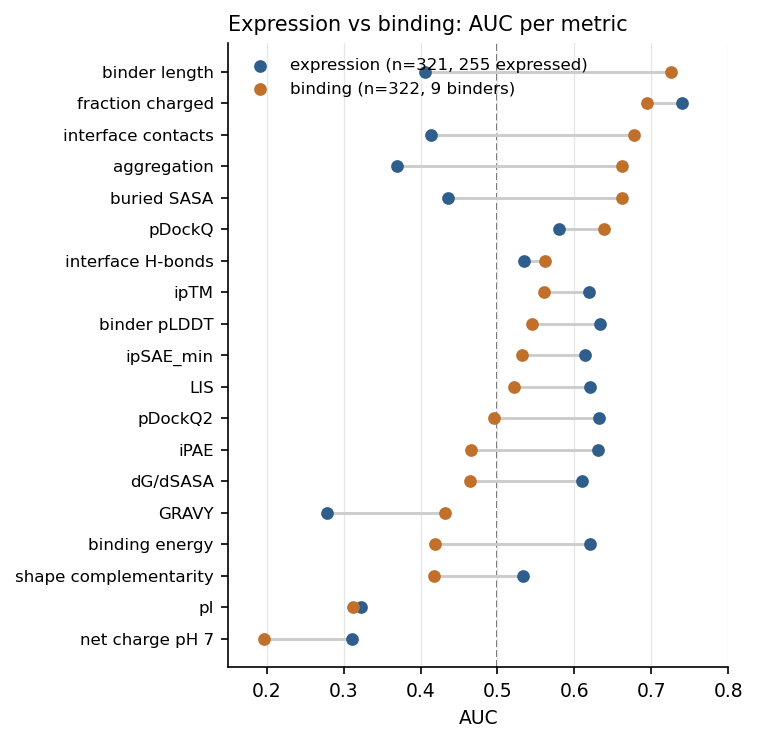
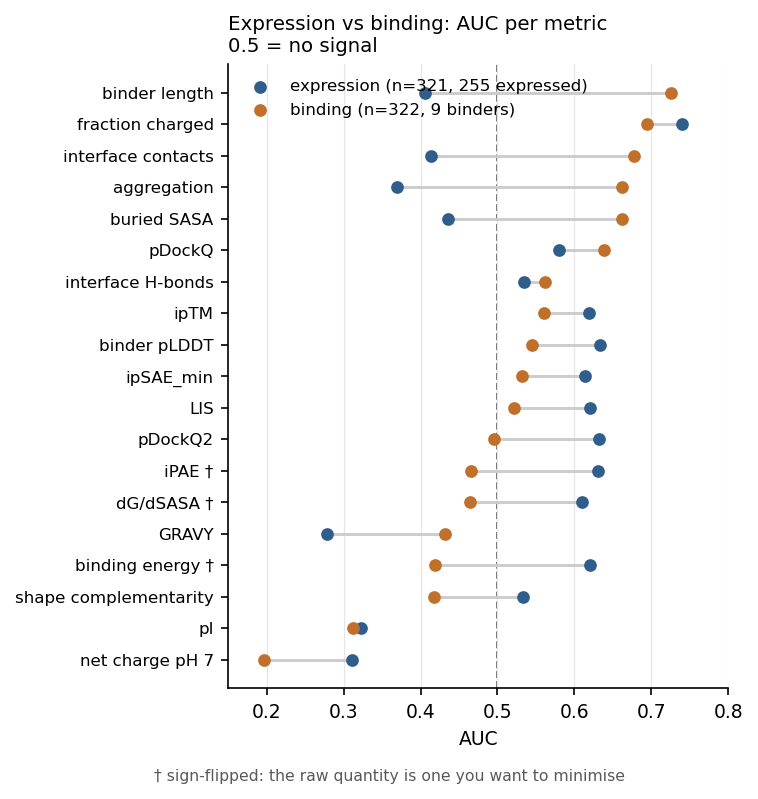
adding images

diff --git a/_posts/2026-09-24-binders-for-rbx1.md b/_posts/2026-09-24-binders-for-rbx1.md
@@ -5,15 +5,32 @@ date: 2026-09-24
 custom_js: https://cdnjs.cloudflare.com/ajax/libs/3Dmol/2.1.0/3Dmol-min.js
 ---
 
-There's a new adaptyv protein design competition starting soon and I thought I'd try to learn a bit about how AI is used to generate binders for proteins. A good first step here is to use the recent GEM/Adaptyv RBX1 competition to try a couple of things: 1. Making a pipeline for generating binders and 2. Find out how binders are selected for experimental testing.
+Of the 24 metrics I computed over the 322 designs from the GEM/Adaptyv RBX1 competition, the ones that predict whether a design *expresses* are mostly not the ones that predict whether it *binds*, and several of them predict the two in opposite directions.
 
-By the end we will see some metrics that correlate with expression and binding, and see if a proposed set of gating criteria would have been effective in this challenge.
+![AUC for each metric, expression vs binding](/images/rbx1/auc-expression-vs-binding.png)
 
-RBX1 is a part of the Cullin-RING E3 ligase complex that tags other unwanted or damaged proteins for destruction and recycling. It does this through a process called ubiquitinisation, attaching a molecule called ubiquitin to mark proteins for degradation. It plays an important role in cell proliferation and thus cancer, as well as some other diseases, so makes a good target for drugging.
+The metrics are plotted in their raw direction, so distance from the dashed line at 0.5 is what's important and anything to the left of it is predicting in reverse. (The figure shows 19 of the 24; the near-duplicate aggregations are in the tables below.) There are four standout results here:
 
-However it is difficult to design binders primarily for three reasons: firstly it has this large intrinsically disordered region on the N-terminal, this protein forms part of a larger complex, and without the other subunits pinning it down this region can adopt many conformations (in fact it can still take on different conformations when part of the whole complex, which allows the complex the requisite flexibility to attach ubiquitin to many different proteins). The uncertainty in this region swamps the uncertainty on the rest of the sequence, and thus metrics like whole complex pTM or pLDDT or any other metric which doesn't restrict itself to contact residues and which is computed across the whole complex, get tanked by the disordered region even though the uncertainty in that region might not affect where we would want to bind to anyway. Secondly, on the other end of the protein it has these three zinc ions which get held in a cross-brace sort of position and which AI models usually struggle to place correctly. But without placing these correctly the RING domain won't fold right. And finally, it lacks useful evolutionary relatives or analogues, so MSA based approaches have little to go on.
+- **The two charge metrics are the only ones near the top for both.** `seq_fraction_charged` is the best expression predictor at 0.740 and is third for binding at 0.695; net charge at pH 7 is the strongest binding signal and third strongest for expression. Everything else that is good at one is mediocre or reversed at the other.
+- **Binder length, interface contacts, buried SASA and aggregation all sit below 0.5 for expression and above it for binding.** Filtering hard on expression proxies is therefore partly selecting against binding.
+- **The strongest single binding signal is net charge at pH 7**, which lands at 0.197, meaning 0.80 read in the negative direction. A plain sequence property with no structural information in it beats every interface metric here, and every `iface_*` metric except `iface_pdockq` falls within 0.07 of chance, with `iface_iptm` the furthest out at 0.561 and `iface_pdockq2` the closest in at 0.496.
+- **The best metric by AUC isn't the one I'd rank on.** This one isn't in the plot: net charge has the best AUC but an average precision of 0.088, against 0.229 for interface contacts. With a budget to test 20 designs I'd pick differently.
 
-The scale of the problem shows in the fold-prediction baselines. According to a [blog post by the winners of the competition](https://research.mandrake.bio/p/we-dont-even-design-binders), Mandrake bio, ESMFold reaches pLDDT 0.40 on this target, Protenix ab initio 0.60, Boltz-2 0.63. All of these uninformative or marginal. In adaptyv's competition out of 322 designs, only 9 bound to the target and 255 expressed.
+With 9 binders out of 322 none of this is conclusive, and I'll come back to that below. The rest of this post is how I got there: a pipeline for generating binders, and then a look at how the competition's binders would have scored against the usual selection metrics.
+
+## Why RBX1 is hard
+
+RBX1 is a part of the Cullin-RING E3 ligase complex that tags other unwanted or damaged proteins for destruction and recycling. It does this through a process called ubiquitination, attaching a molecule called ubiquitin to mark proteins for degradation. It plays an important role in cell proliferation and thus cancer, as well as some other diseases, so makes a good target for drugging.
+
+It is difficult to design binders for, though, for a few reasons.
+
+It has a large intrinsically disordered region on the N-terminal. This protein forms part of a larger complex, and without the other subunits pinning it down this region can adopt many conformations. In fact it can still take on different conformations when part of the whole complex, which allows the complex the requisite flexibility to attach ubiquitin to many different proteins. The uncertainty in this region swamps the uncertainty on the rest of the sequence, so metrics like whole complex pTM or pLDDT, or any other metric which doesn't restrict itself to contact residues and which is computed across the whole complex, get tanked by the disordered region even though the uncertainty there might not affect where we would want to bind anyway.
+
+On the other end of the protein it has three zinc ions which get held in a cross-brace sort of position and which AI models usually struggle to place correctly. Without placing these correctly the RING domain won't fold right.
+
+And finally it lacks useful evolutionary relatives or analogues, so MSA based approaches have little to go on.
+
+The scale of the problem shows in the fold-prediction baselines. According to a [blog post by the winners of the competition](https://research.mandrake.bio/p/we-dont-even-design-binders), Mandrake bio, ESMFold reaches pLDDT 0.40 on this target, Protenix ab initio 0.60, Boltz-2 0.63. All of these are uninformative or marginal. In adaptyv's competition out of 322 designs, only 9 bound to the target and 255 expressed.
 
 Mandrake's ORBIT pipeline took an approach that:
 
@@ -34,13 +51,13 @@ Adaptyv has run several of these competitions: A two stage competition aiming to
 
 In the first adaptyv competition on EGFR iPAE, ipTM and ESM-2 pseudo-likelihood were used as selection mechanisms. Also additional binders were selected to increase diversity in the final released dataset, so the above concerns are well known. One of the results that stood out to me in [their write up](https://www.biorxiv.org/content/10.1101/2025.04.17.648362v2.full.pdf) was that lumping all designs together meant that metrics that might only show significance on say, peptides, would be marked down as insignificant. In fact the winning design was completely overlooked by the above metrics. In the Nipah competition ipSAE was chosen, but it had issues in that scores would vary slightly due to random seed and this variability was not uniform across designs, which may have advantaged designs which gave more stable scores. All of this is to say that determining *in-silico* whether a design will bind is quite challenging. In a [2025 paper](https://www.biorxiv.org/content/10.1101/2025.08.14.670059v2) Overath et al. propose the following selection criteria:
 
-
 "Based on our analysis, we recommend the following actionable filtering strategies. The first involves setting one of the following thresholds for filtering designs: AF3 ipSAE_min > 0.61; AF3 ipSAE_min x interface_∆G/∆SASA < -1.5; or AF3 LIS x input_interface_shape_complementary > 0.42. The second strategy entails pre-filtering designs using input_interface_shape_complementary > 0.62 and RMSD_binder < 3.73, followed by selecting the top K designs based on AF3 ipSAE_min"
 
-I thought it would be worthwhile to see if me and Claude could build a binder generation pipeline informed somewhat by Mandrake's pipeline and then see how the 9 binders from the competition would have fared against the aforementioned metrics and selection criteria. In line with Mandrake's proposal we will use protenix in place of AF3 to calculate metrics.
+I thought it would be worthwhile to build a binder generation pipeline informed somewhat by Mandrake's pipeline and then see how the 9 binders from the competition would have fared against the aforementioned metrics and selection criteria. In line with Mandrake's proposal we will use protenix in place of AF3 to calculate metrics.
 
 ### My pipeline
-Claude code is really good at this sort of thing, the hardest part of building the pipeline was dealing with the feelings of obsolescence as it handily whipped off code it would have taken me weeks to do by hand. The pipeline ended up looking like:
+
+I used Claude Code for most of the plumbing here and specified the binding site myself. The pipeline ended up looking like:
 
 ```
 target structure + hotspot residues
@@ -61,10 +78,10 @@ target structure + hotspot residues
    feature table
 ```
 
-First we can do a few sanity checks of this pipeline, when we generate binders do they make sense, do we actually make contact with the binding site etc.
+First we can do a few sanity checks of this pipeline: when we generate binders do they make sense, do we actually make contact with the binding site etc.
 
 ### Do we make contact?
-The first question is: when we use RFDiffusion to design binders against our fold from protenix, do we actually make contact with the binding sites we specify (A74/F81/Y106, chosen somewhat arbitrarily although I excluded the disordered region)? The answer seems to be yes for at least one of the sites and "somewhat" if we want to contact all three sites? We don't necessarily need a binder to contact all 3 hotspots so contacting just one is a good sign that we are on target.
+The first question is: when we use RFDiffusion to design binders against our fold from protenix, do we actually make contact with the binding sites we specify (A74/F81/Y106, chosen somewhat arbitrarily although I excluded the disordered region)? The answer seems to be yes for at least one of the sites and "somewhat" if we want to contact all three sites. We don't necessarily need a binder to contact all 3 hotspots so contacting just one is a good sign that we are on target.
 
 
 | run | n backbones | contact >=1 hotspot | contact all 3 hotspots |
@@ -89,24 +106,22 @@ Looks pretty good, SolubleMPNN clearly does a good job at this.
 ## Evaluating the published dataset
 In the next couple of sections we will take a really crude look at what metrics predict expression and binding in the set of proposed binders released after the competition. To do this properly we should probably look more generally beyond RBX1 considering how few binders there were and deal with uncertainty and significance properly. But just to start let's see.
 
-The short version is in this plot: the metrics that separate expressors from non-expressors are mostly not the ones that separate binders from non-binders, and several of them point in opposite directions.
-
-![AUC for each metric, expression vs binding](/images/rbx1/auc-expression-vs-binding.png)
+Throughout, AUCs are reported in each metric's raw direction, except the error and energy metrics marked *(sign-flipped)*, where the raw quantity is one you want to minimise. Average precision is raw throughout, which matters for the metrics that predict in reverse. An AUC below 0.5 doesn't mean the metric is useless, it means it predicts in reverse: subtract it from 1 to get its strength in the other direction. So what matters is distance from 0.5, not whether a number is large.
 
 ### Expression (n=321, 255 expressed)
-Before a design can bind to the target it must express, meaning they must be able to be produced in the assay adaptyv used. (Note one design had no binder label). Here we have sign flipped metrics appropriately so higher AUC always means "better at this metric predicts expression better".
+Before a design can bind to the target it must express, meaning they must be able to be produced in the assay adaptyv used. (Note one design had no binder label.)
 
 | metric | AUC |
 |---|---|
 | `seq_fraction_charged` | **0.740** |
 | `binder_mean_plddt` | 0.633 |
 | `iface_pdockq2` | 0.632 |
-| `iface_ipae`  | 0.631 |
-| `struct_binding_energy`  | 0.620 |
+| `iface_ipae` *(sign-flipped)* | 0.631 |
+| `struct_binding_energy` *(sign-flipped)* | 0.620 |
 | `iface_lis` | 0.620 |
 | `iface_iptm` | 0.619 |
 | `iface_ipsae_min` | 0.614 |
-| `struct_dg_dsasa_ratio`  | 0.610 |
+| `struct_dg_dsasa_ratio` *(sign-flipped)* | 0.610 |
 | `iface_i_pdae` (symmetrised) | 0.607 |
 | `iface_ipsae` | 0.605 |
 | `iface_i_pdae_asymmetric` | 0.604 |
@@ -123,16 +138,16 @@ Before a design can bind to the target it must express, meaning they must be abl
 | `seq_net_charge_ph7` | 0.311 |
 | `seq_gravy` | 0.278 |
 
-This makes sense, the SolubleMPNN weights were shown to be very important to get binders which expressed (93% to 0% difference!!) and it tends to raise the surface charge of the proteins it predicts. Additionally plddt and iPAE, the folding models confidence in its own predictions on a per residue level and predicted aligned error respectively, which a lot of the interface metrics either directly inherit from or are correlated to, makes sense as metrics to be positively correlated with expression: If the model is more confident that it has predicted the structure right or if it predicts a lower average error when aligning on all the residues, it is probably more plausible as a real structure. Maybe... and as we will see expression doesn't guarantee binding. Another problem with these metrics is that they are, of course, biased towards proteins which already exist and that were in the training set of whichever folding model you use, and we are interested in generating and selecting novel proteins.
+This makes sense, the SolubleMPNN weights were shown to be very important to get binders which expressed (93% to 0% difference!) and it tends to raise the surface charge of the proteins it predicts.
+
+pLDDT and iPAE, the folding model's confidence in its own predictions on a per residue level and predicted aligned error respectively, are inherited by or correlated with a lot of the interface metrics. It makes sense for these to be positively correlated with expression: if the model is more confident that it has predicted the structure right, or if it predicts a lower average error when aligning on all the residues, the design is probably more plausible as a real structure. Maybe. And as we will see, expression doesn't guarantee binding.
+
+Another problem with these metrics is that they are, of course, biased towards proteins which already exist and which were in the training set of whichever folding model you use, and we are interested in generating and selecting novel proteins.
 
 
 ### Binding (n=322, 9 binders)
 
-There are far fewer binders than expressors, so these results need to be taken with a proportionally larger pinch of salt. The ROC curves for the best few metrics make the sample size obvious — with 9 positives every step is one design, and a single relabelled design moves the curve visibly.
-
-![ROC curves for the top binding predictors](/images/rbx1/roc-binding.png)
-
-(`seq_net_charge_ph7` is shown sign-flipped here, so its AUC reads 0.80 rather than the 0.197 in the table below; it is the same ordering, just pointed the other way.)
+There are far fewer binders than expressors, so these results need to be taken with a proportionally larger pinch of salt.
 
 | metric | AUC | average precision |
 |---|---|---|
@@ -161,9 +176,33 @@ There are far fewer binders than expressors, so these results need to be taken w
 | `seq_pi` | 0.312 | 0.021 |
 | `seq_net_charge_ph7` | **0.197** | 0.018 |
 
-By eye these seem to make sense, RBX1 is a pretty complicated molecule so minimal scaffolds like minibinders may struggle to attach whereas a larger properly folded molecule has more to work with, so binder length being longer seems reasonable. The metrics that dominate have a lot to do with the binding site or other things that would make a molecule better or worse at sticking to another: seq_fraction_charged is about how much of the sequence has charged residues, aggregation slides a 7 residue window over the sequence and calculates hydropathy, basically asking "is there a continuous patch with high hydrophobicity and how hydrophobic is it?", buried_sasa asks a similar question but appends "is it exposed on the outside of the molecule?" although why the simple sequence level metric that has no structural information outperforms the more sophisticated buried_sasa is a bit mysterious.
+Read by distance from 0.5, the top of this table is `seq_net_charge_ph7` at 0.197, which is 0.80 in the negative direction. More negatively charged designs bind more often, and `seq_pi` at 0.312 says the same thing from a different angle. A sequence-level property with no structural information in it is the strongest signal here, while `ipSAE_min`, `LIS`, `pDockQ2` and the rest of the `iface_*` panel that selection pipelines are usually built around all fall within 0.07 of chance, apart from `iface_pdockq`: `iface_iptm` is the furthest out at 0.561 and `iface_pdockq2` the closest in at 0.496.
 
-One other interesting thing to note is that binders tend to be more negatively charged than non-binders. In the next segment we will investigate this a bit.
+The average precision column is raw, which makes `seq_net_charge_ph7` look terrible: 0.018, under the 2.8% base rate (9 binders in 322, so that is what a random ordering scores). That is just what you get ranking by raw net charge when the binders are the negative ones. Flipped it is 0.088, about three times the base rate, but `struct_contacts` manages 0.229 and `struct_buried_sasa` 0.207. So the best metric by AUC isn't the one I'd rank on if I could only test 20 designs. AUC uses the whole ordering, AP mostly only cares about the top of it.
+
+The rest of the ordering seems reasonable by eye. RBX1 is a pretty complicated molecule, so minimal scaffolds like minibinders may struggle to attach whereas a larger properly folded molecule has more to work with, which fits binder length coming out high.
+
+The other metrics that do well all have something to do with the binding site, or with properties that make a molecule better or worse at sticking to another. `seq_fraction_charged` is about how much of the sequence has charged residues. `seq_aggregation` slides a 7 residue window over the sequence and calculates hydropathy, basically asking whether there is a continuous patch with high hydrophobicity and how hydrophobic it is. `struct_buried_sasa` asks a similar question but appends "is it exposed on the outside of the molecule?". Why the simple sequence level metric with no structural information outperforms the more sophisticated `struct_buried_sasa` is a bit mysterious.
+
+### Is any of this real?
+
+The ROC curves for four of the strongest signals, dropping `seq_pi` as a near-duplicate of net charge, make the sample size obvious: with 9 positives every step is one design, and a single relabelled design moves the curve visibly.
+
+![ROC curves for the top binding predictors](/images/rbx1/roc-binding.png)
+
+(An ROC curve has to be oriented one way, so `seq_net_charge_ph7` is drawn sign-flipped here and reads 0.80 rather than the 0.197 in the table above. Same ordering but just pointed the other way.)
+
+The bracketed numbers in the legend are 95% percentile bootstrap intervals over 10,000 resamples of the 322 designs, and they are very wide, which is a big reason not to over-read any of this. Interface contacts at 0.68 [0.49, 0.85] has an interval that reaches chance, so with nine positives it is a hint rather than anything conclusive.
+
+Those intervals are also conditional on having already chosen the metric, and I chose it by looking at 24 of them. The null standard deviation of a single AUC at this sample size is 0.097, so the right question is not whether a metric beats 0.5, it's whether it beats what the best of 24 would reach anyway. Shuffling the binder labels 200,000 times and taking the best metric in the panel each time gives the answer directly.[^panel]
+
+![Permutation null for the best metric in the panel](/images/rbx1/permutation-null.png)
+
+The bar is around 0.7, not 0.5. Only net charge clears it, at 0.803 with a family-wise p of 0.015. Binder length (0.725) and fraction charged (0.695) sit inside the null, which means I can't separate them from noise here.
+
+[^panel]: I can only shuffle 15 of the 24 metrics as I didn't save all the results I needed, but missing metrics can only raise the bar, and it rises fastest when they share nothing with the ones I do have. Adding nine completely unrelated metrics puts it at 0.70 at worst, where net charge still passes (p = 0.026) and binder length and fraction charged still don't (0.33 and 0.59).
+
+The charge result is the one worth looking at further, so that's the next section.
 
 ### So if the binders are negatively charged...
 
@@ -257,7 +296,7 @@ The winning binder definitely looks more complicated than both of the ones I gen
 
 ### Some final thoughts
 
-It would be cool if in future competitions the design structures and predicted co-folds could be included, perhaps along with predicted epitope. I don't think it would be that much to ask competitors to include this and would be a useful tool for analysis. For instance, I'm interested to know where binders were predicted to land on RBX1 by the competitors' pipelines and how this prediction would differ using my own pipeline.  
+It would be cool if in future competitions the design structures and predicted co-folds could be included, perhaps along with predicted epitope. I don't think it would be that much to ask competitors to include this and would be a useful tool for analysis. For instance, I'm interested to know where binders were predicted to land on RBX1 by the competitors' pipelines and how this prediction would differ using my own pipeline.
 
 Based on my own pipeline only 4/9 of the binders make any contact with my chosen sites (A74/F81/Y106) and the best binder from Mandrake makes significant contact with the disordered region that I ruled out (without thinking about it too much). Again this can only be trusted so far since we don't know what the competitors models predicted, nor do we know where the binder actually lands in vitro.
 
